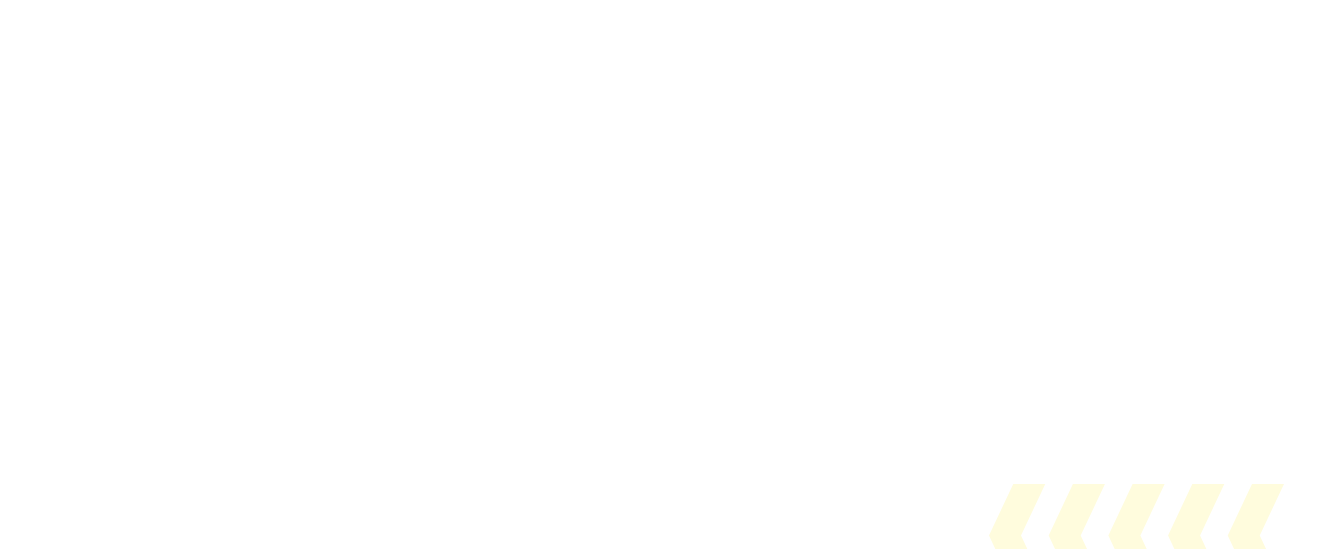
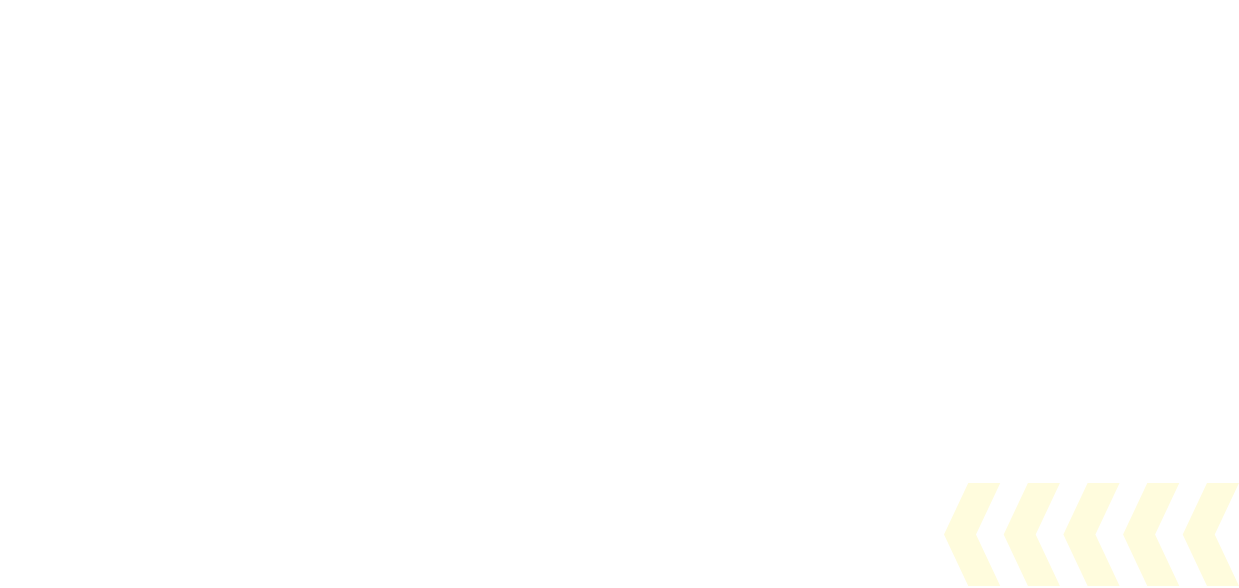
ajuste

Changed region(s): [[0.7361, 0.8036, 1.0, 1.0]]

diff --git a/src/views/Tema6.vue b/src/views/Tema6.vue
@@ -147,12 +147,13 @@
     #t_6_3.titulo-segundo.color-acento-contenido(data-aos="fade-left")
       h2.mt-3 6.3 Protocolos
 
-    .row.justify-content-center
-      .col-lg-4
-        img(src='@/assets/curso/temas/tema6/t6-10.svg', alt='Texto que describa la imagen').mb-3        
-      .col-lg-8
-        p El protocolo de compras es el detalle del procedimiento que sirve para la gestión documental en la empresa. En este se detallan aspectos como los responsables de cada actividad, documentos de soporte que se utilizan o se encuentran depositados en un lugar accesible para cualquier colaborador que esté relacionado con el proceso de compras, además de un ítem muy importante: la forma como se debe interactuar con el cliente o el proveedor, por medio de la comunicación y el lenguaje que utiliza la empresa, según el área de comunicaciones.  El protocolo de compras debe ser comprensible, contar con suficiente información y resolver las dudas de los clientes internos y externos.
-        p ¿Y en cuanto al flujo de proceso?
+    .t6-bkg2
+      .row.justify-content-center
+        .col-lg-4
+          img(src='@/assets/curso/temas/tema6/t6-10.svg', alt='Texto que describa la imagen').mb-3        
+        .col-lg-8
+          p El protocolo de compras es el detalle del procedimiento que sirve para la gestión documental en la empresa. En este se detallan aspectos como los responsables de cada actividad, documentos de soporte que se utilizan o se encuentran depositados en un lugar accesible para cualquier colaborador que esté relacionado con el proceso de compras, además de un ítem muy importante: la forma como se debe interactuar con el cliente o el proveedor, por medio de la comunicación y el lenguaje que utiliza la empresa, según el área de comunicaciones.  El protocolo de compras debe ser comprensible, contar con suficiente información y resolver las dudas de los clientes internos y externos.
+          p ¿Y en cuanto al flujo de proceso?
 
     separador
 

diff --git a/src/styles/_custom.sass b/src/styles/_custom.sass
@@ -221,6 +221,22 @@
     background-repeat: no-repeat
     background-position: center top  
 
+.t6-bkg2
+  position: relative
+  .row, figure, p, h3, .titulo-sexto.color-primario
+    position: relative
+  &::before
+    content: ""
+    position: absolute
+    margin-left: -48px
+    margin-top: 0
+    width: calc( 100% + 96px )
+    height: 100%       
+    background-image: url('../assets/curso/temas/tema6/t6-bkg.png')
+    background-size: 100% auto  
+    background-repeat: no-repeat
+    background-position: center top      
+
 .t8-bkg
   position: relative
   .row, figure, p, h3, .titulo-sexto.color-primario
